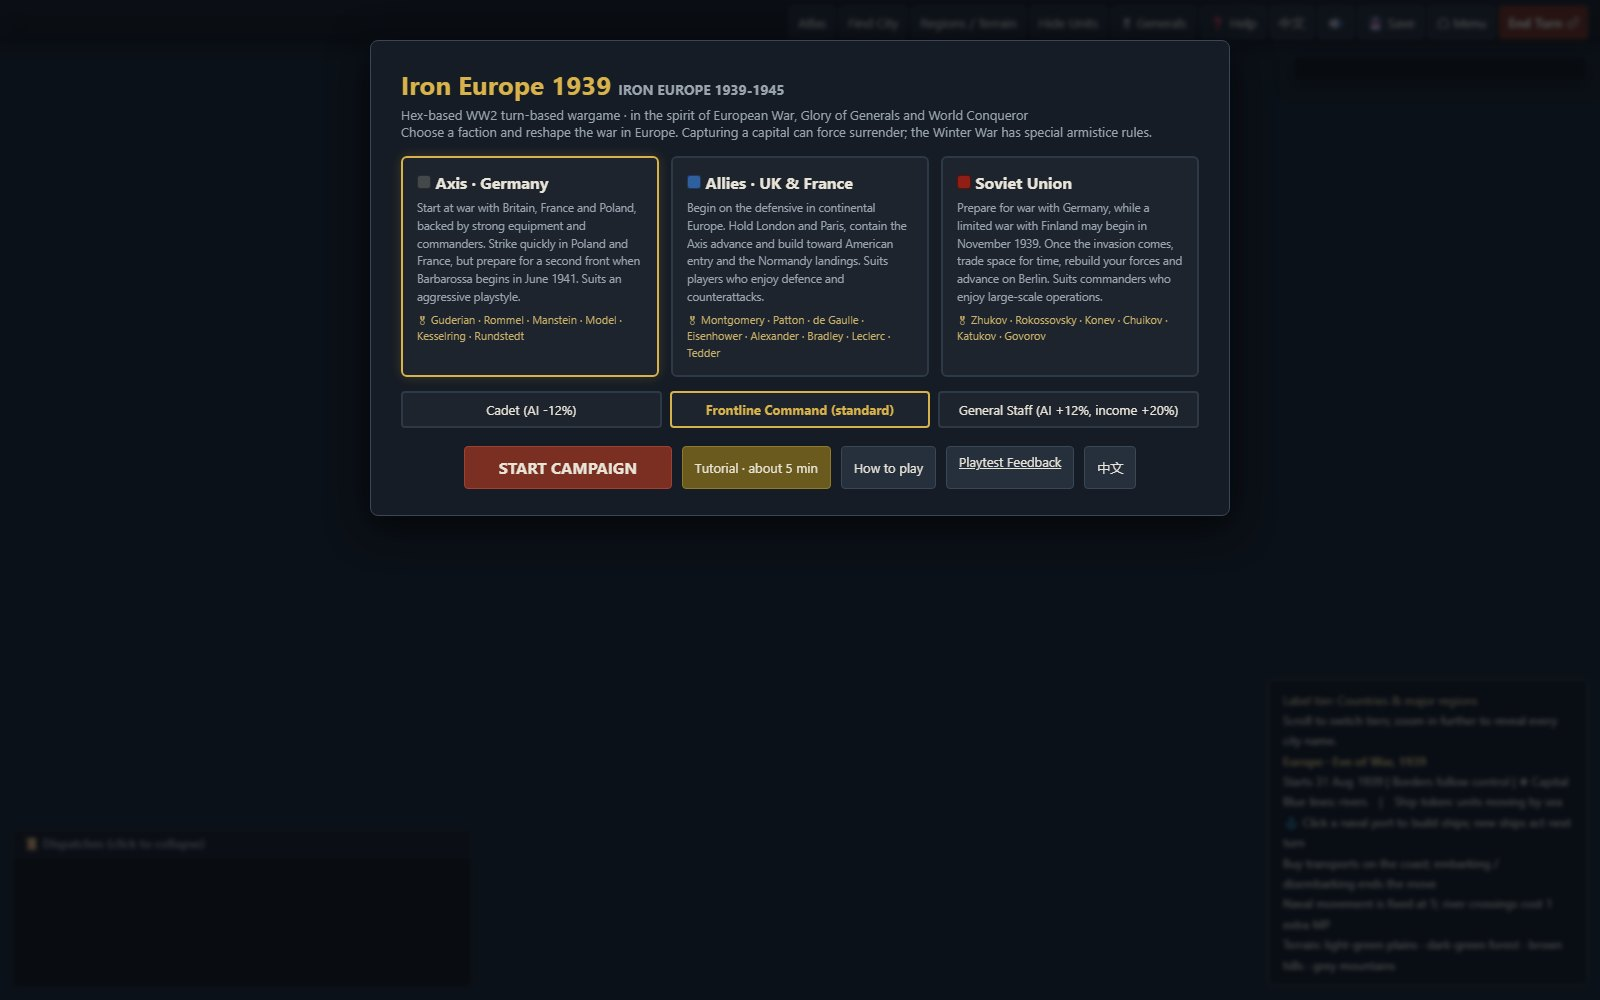
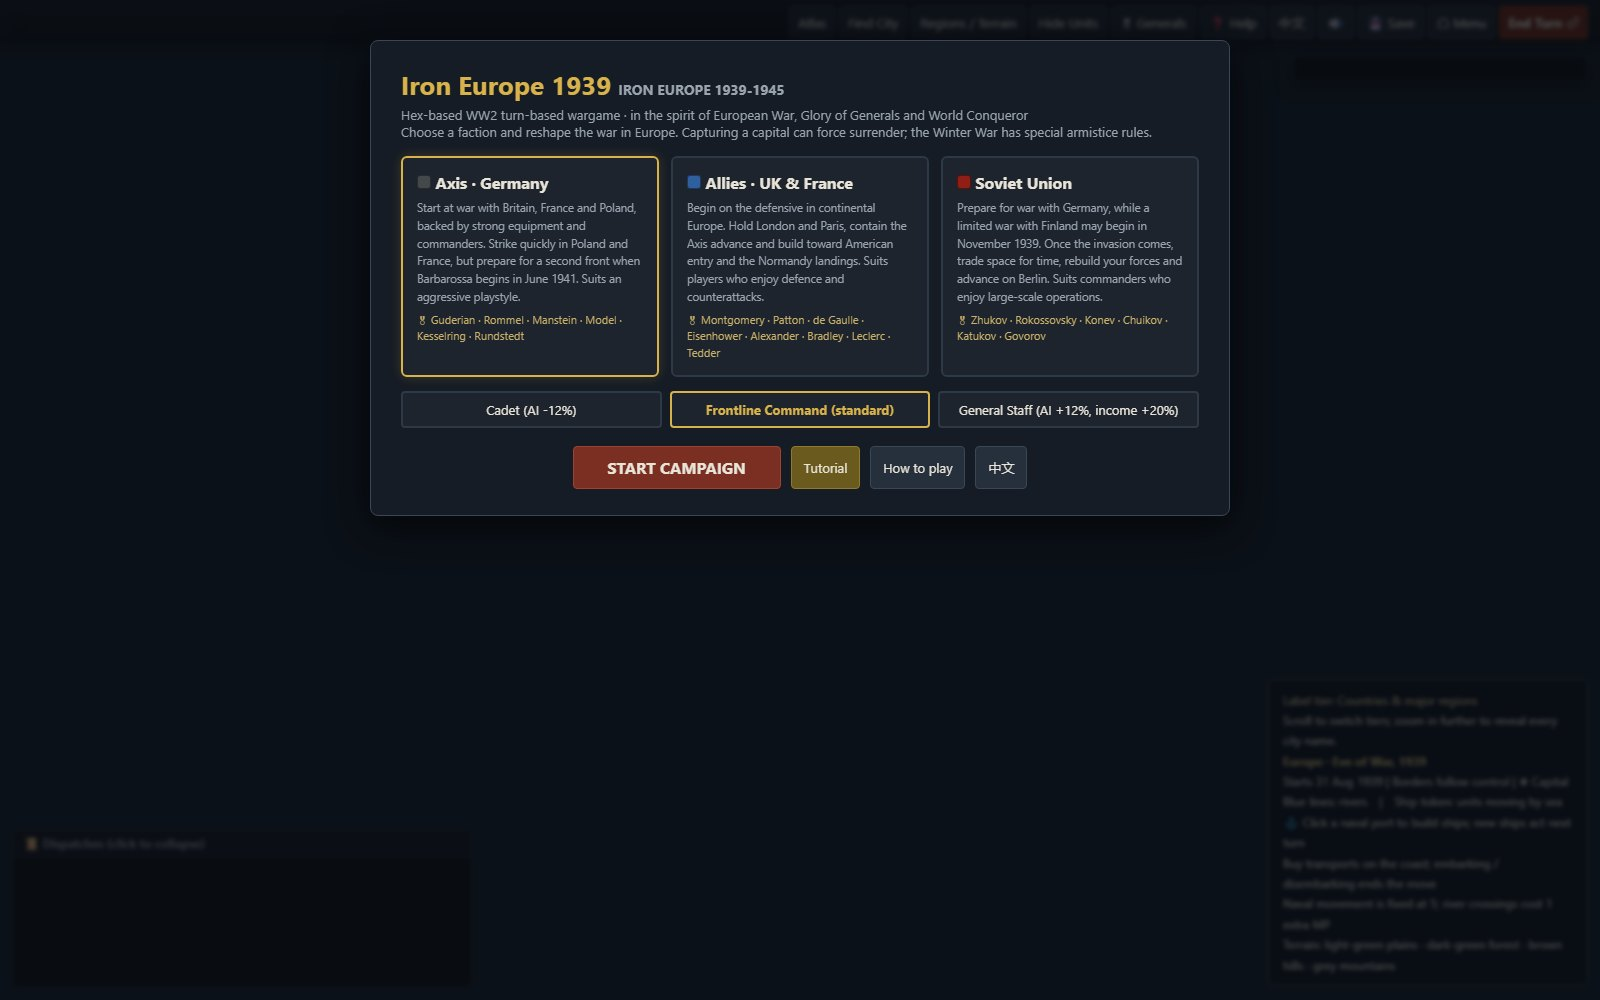
Remove tutorial time estimate and built-in playtest feedback

Changed region(s): [[0.2812, 0.434, 0.7188, 0.496]]

diff --git a/js/ui/ui.js b/js/ui/ui.js
@@ -1240,9 +1240,8 @@ function showStart(fac = 'axis', diff = 'normal') {
       <div class="actions">
         <button class="btn primary" id="m-start" style="font-size:16px;padding:10px 34px">${T('开 始 战 役')}</button>
         ${hasSave ? '<button class="btn gold" id="m-continue">'+T('继续上次战役')+'</button>' : ''}
-        <button class="btn gold" id="m-tutorial">${T('新手教程 · 约5分钟')}</button>
+        <button class="btn gold" id="m-tutorial">${T('新手教程')}</button>
         <button class="btn" id="m-help2">${T('玩法说明')}</button>
-        <a class="btn" href="survey.html?lang=${typeof I18N!=='undefined'?I18N.lang:'zh'}" target="_blank" rel="noopener">${T('试玩反馈')}</a>
         <button class="btn" id="m-lang" title="${T("Switch language / 切换语言")}">${(typeof I18N !== 'undefined' && I18N.lang === 'en') ? '中文' : 'EN'}</button>
       </div>
     </div>`);

diff --git a/landing/index.html b/landing/index.html
@@ -1019,7 +1019,6 @@ footer .fmeta a:hover{color:var(--gold-hi);border-color:var(--gold)}
   <p class="fen rv" style="--d:1">HISTORY IS WRITTEN. NOW WRITE YOURS.</p>
   <div class="cta rv" style="--d:2">
     <a class="btn btn-gold" href="../index.html?play=1"><span data-i18n="免费开战 · PLAY FREE">免费开战 · PLAY FREE</span> <span class="arr">▸</span></a>
-    <a class="btn btn-ghost" href="../survey.html" data-i18n="试玩反馈">试玩反馈</a>
     <a class="btn btn-ghost" href="https://github.com/ttdnx2999-cmd/test_collab" target="_blank" rel="noopener" data-i18n="GitHub 仓库">GitHub 仓库</a>
   </div>
   <p class="fmono rv" style="--d:3">FREE · PLAYS IN YOUR BROWSER · OFFLINE-READY</p>

diff --git a/js/ui/i18n-en-updates.js b/js/ui/i18n-en-updates.js
@@ -234,7 +234,7 @@ I18N.add({
   "罗马尼亚向苏联割让基希讷乌及其比萨拉比亚附属地区，当地罗马尼亚部队撤回本国。": "Romania cedes Chișinău and its dependent Bessarabian territory to the Soviet Union. Romanian units in the ceded territory withdraw to their remaining homeland."
 });
 
-I18N.add({"试玩反馈":"Playtest Feedback","工厂":"Factory"});
+I18N.add({"工厂":"Factory"});
 
 I18N.add({
   '反击伤害 +{0}%': 'Counterattack coefficient +{0} percentage points',

diff --git a/js/ui/i18n-en.js b/js/ui/i18n-en.js
@@ -239,7 +239,7 @@
     '总参谋部（AI +12%，收入+20%）': 'General Staff (AI +12%, income +20%)',
     '开 始 战 役': 'START CAMPAIGN',
     '继续上次战役': 'Continue campaign',
-    '新手教程 · 约5分钟': 'Tutorial · about 5 min',
+    '新手教程': 'Tutorial',
     '玩法说明': 'How to play',
     '存档损坏：': 'Save corrupted: ',
     '显示部队': 'Show Units',

diff --git a/README.en.md b/README.en.md
@@ -1,6 +1,6 @@
 # Iron Europe 1939
 
-[Play](https://ttdnx2999-cmd.github.io/test_collab/?lang=en) · [中文说明](README.md) · [Playtest feedback](survey.html?lang=en)
+[Play](https://ttdnx2999-cmd.github.io/test_collab/?lang=en) · [中文说明](README.md)
 
 A single-player, turn-based hex wargame covering the European theatre. Runs in your browser, including offline: extract the complete game package and open `index.html`. Choose **English** on the introduction page, then **Play Free**. Choose the Axis, Allies or Soviet Union, or try the tutorial first.
 
@@ -89,8 +89,7 @@ From 1945, only strategic bombers can launch nuclear strikes, costing 2,000 gold
 
 Read [Diplomacy and Treaties](DIPLOMACY.en.md) for territorial rules, limited wars and conditional events. Capturing a capital normally forces that country to surrender and be annexed. The Winter War is an exception. Defeat all major hostile factions to win; losing all your faction's capitals means defeat. Winning one limited war does not win the entire campaign.
 
-## Feedback and credits
+## Credits
 
-The [playtest survey](survey.html?lang=en) takes about three minutes. It saves a draft locally and lets you download your answers. It does not upload them: send the file yourself to the person who invited you to play.
 
 Music by Kevin MacLeod, licensed under CC BY 4.0. Full credits: [music/credits.txt](music/credits.txt). Audio starts after a click or keypress and pauses in the background. Map data uses Natural Earth and historical boundary sources; retain the source manifest and licences in `map_sources/` when redistributing.

diff --git a/DEVELOPMENT.md b/DEVELOPMENT.md
@@ -45,12 +45,10 @@
 
 运行数据、来源与许可证、测试、构建器和当前功能说明均应保留。一次性调试脚本、旧测试报告、被替换的截图和临时日志不应进入发布包。删除文件后同时更新工作流与所有相对链接。
 
-## 双语、问卷与兵模
+## 双语与兵模
 
 `js/ui/i18n*.js`提供中文／英语显示；介绍页和游戏都支持切换。`?lang=en|zh`优先于本地语言偏好，用于跨离线页面传递语言。新增提示必须使用T/F并补词条，新增数据需通过英语数据审计。`i18n-en-updates.js`维护当前规则与事件的增补，不能用旧分支文案覆盖新机制。
 
 逻辑标识保持稳定：招募分组、装备键、城市键和舰名存档标识不翻译；舰名通过displayShipName展示英语。切换语言前等待行动结束并保存正式战役。战报保存模板与参数，旧战报通过已知模板显示翻译。test_i18n_campaign.js检验跨语言存档、舰名唯一性和现行外交数据。
 
 兵模由UnitIcons统一用于Canvas和SVG，包含陆军细分类别、7种空军、8种海军及运输船侧影。
-
-`docs/playtest-survey.md`为双语问卷来源，`survey.html`和`js/ui/survey*.js`为填写界面。草稿只存在浏览器；答案由玩家主动下载并自行交回，没有后台提交服务。修改问题时需同步文档与survey-data.js。

diff --git a/README.md b/README.md
@@ -1,8 +1,8 @@
 # 钢铁欧陆 1939
 
-[English player guide](README.en.md) · [试玩反馈问卷](survey.html)
+[English player guide](README.en.md)
 
-介绍页右上角可选择中文／English，语言选择会带入正式战役和教程。战役中切换语言前会保存进度；舰名标识不随语言变化，存档可在中英文之间继续游玩。问卷可在浏览器填写并下载答案，网页不自动上传反馈。
+介绍页右上角可选择中文／English，语言选择会带入正式战役和教程。战役中切换语言前会保存进度；舰名标识不随语言变化，存档可在中英文之间继续游玩。
 
 浏览器单机六边形回合制战棋。原生 HTML、Canvas 与 JavaScript，无需安装游戏运行依赖，可离线游玩。
 
